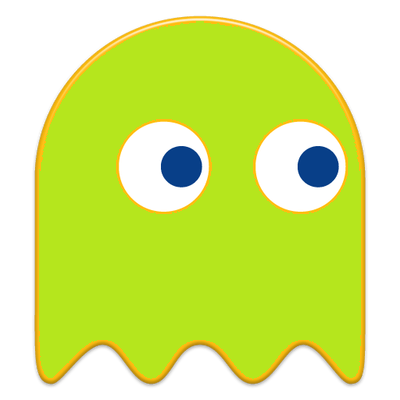
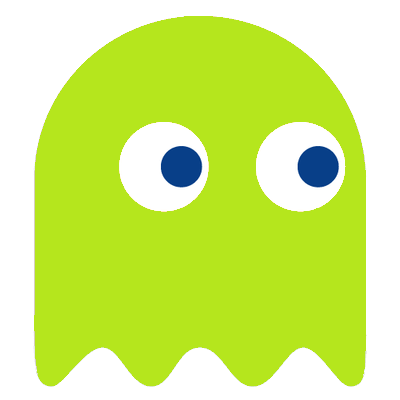
vie des monstre

diff --git a/ex 0.py b/ex 0.py
@@ -28,7 +28,8 @@ monstre = pygame.image.load('monstre.png').convert_alpha()
 monstre_petit = pygame.transform.rotozoom(monstre, 360, 0.09)
 monstre_rouge = pygame.image.load('monstre_rouge.png').convert_alpha()
 monstre_petit_rouge = pygame.transform.rotozoom(monstre_rouge, 360, 0.07)
-
+monstre_vert = pygame.image.load('monstre_vert.png').convert_alpha()
+monstre_petit_vert = pygame.transform.rotozoom(monstre_vert, 360, 0.09)
 font = pygame.font.SysFont('Calibri', 25)
 
 #variable
@@ -177,7 +178,7 @@ while fini == 0:
         m = Monstre()
         m.x = 10
         m.y = 0
-        m.vie = randint(1, 2)
+        m.vie = 3
         les_monstres.append(m)
         compteur_apparition = 0
     
@@ -301,9 +302,12 @@ while fini == 0:
         ecran.blit(image_perso_tournee, [a, b])
 
     for m in les_monstres:
-        if m.vie > 1:
+        if m.vie == 3:
+            ecran.blit(monstre_petit_vert, [m.x, m.y])
+        if m.vie == 2:
             ecran.blit(monstre_petit, [m.x, m.y])
-        else:
+        
+        if m.vie == 1:
             ecran.blit(monstre_petit_rouge, [m.x, m.y])
             
     
